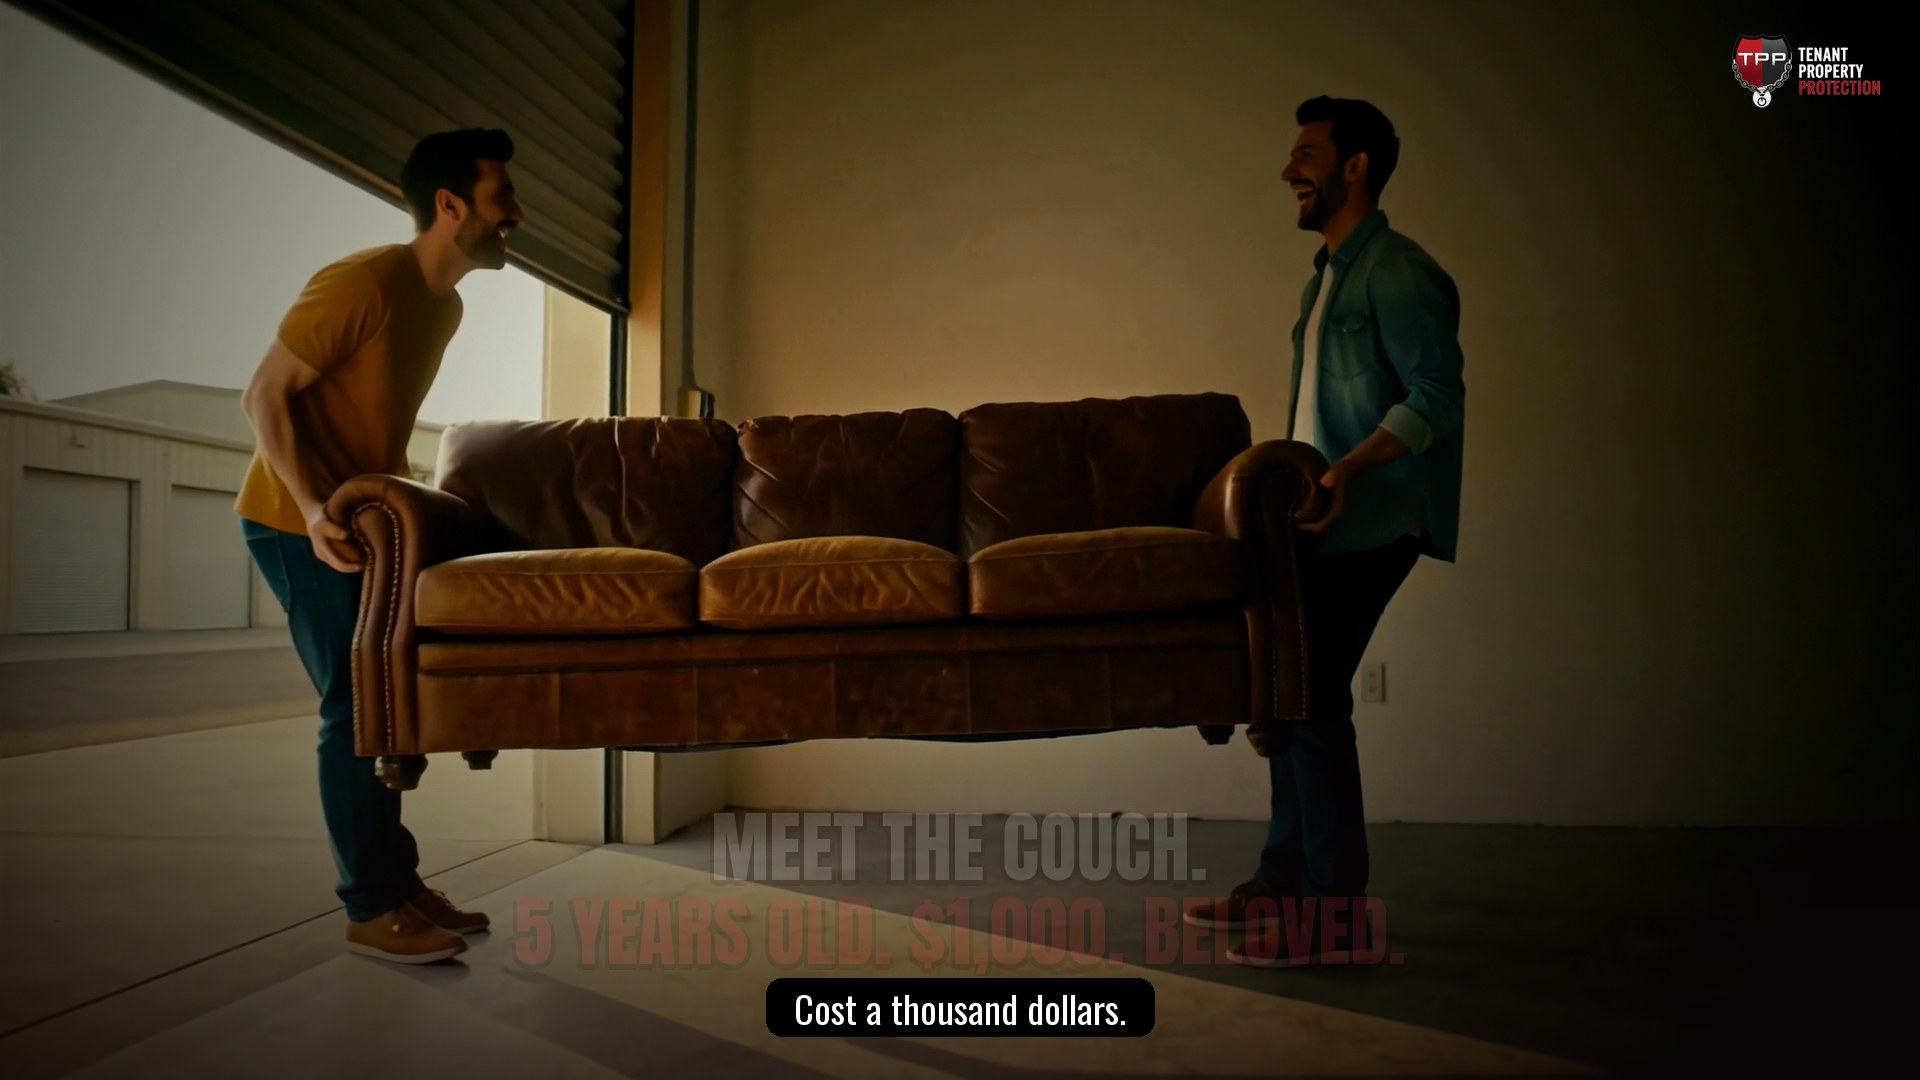
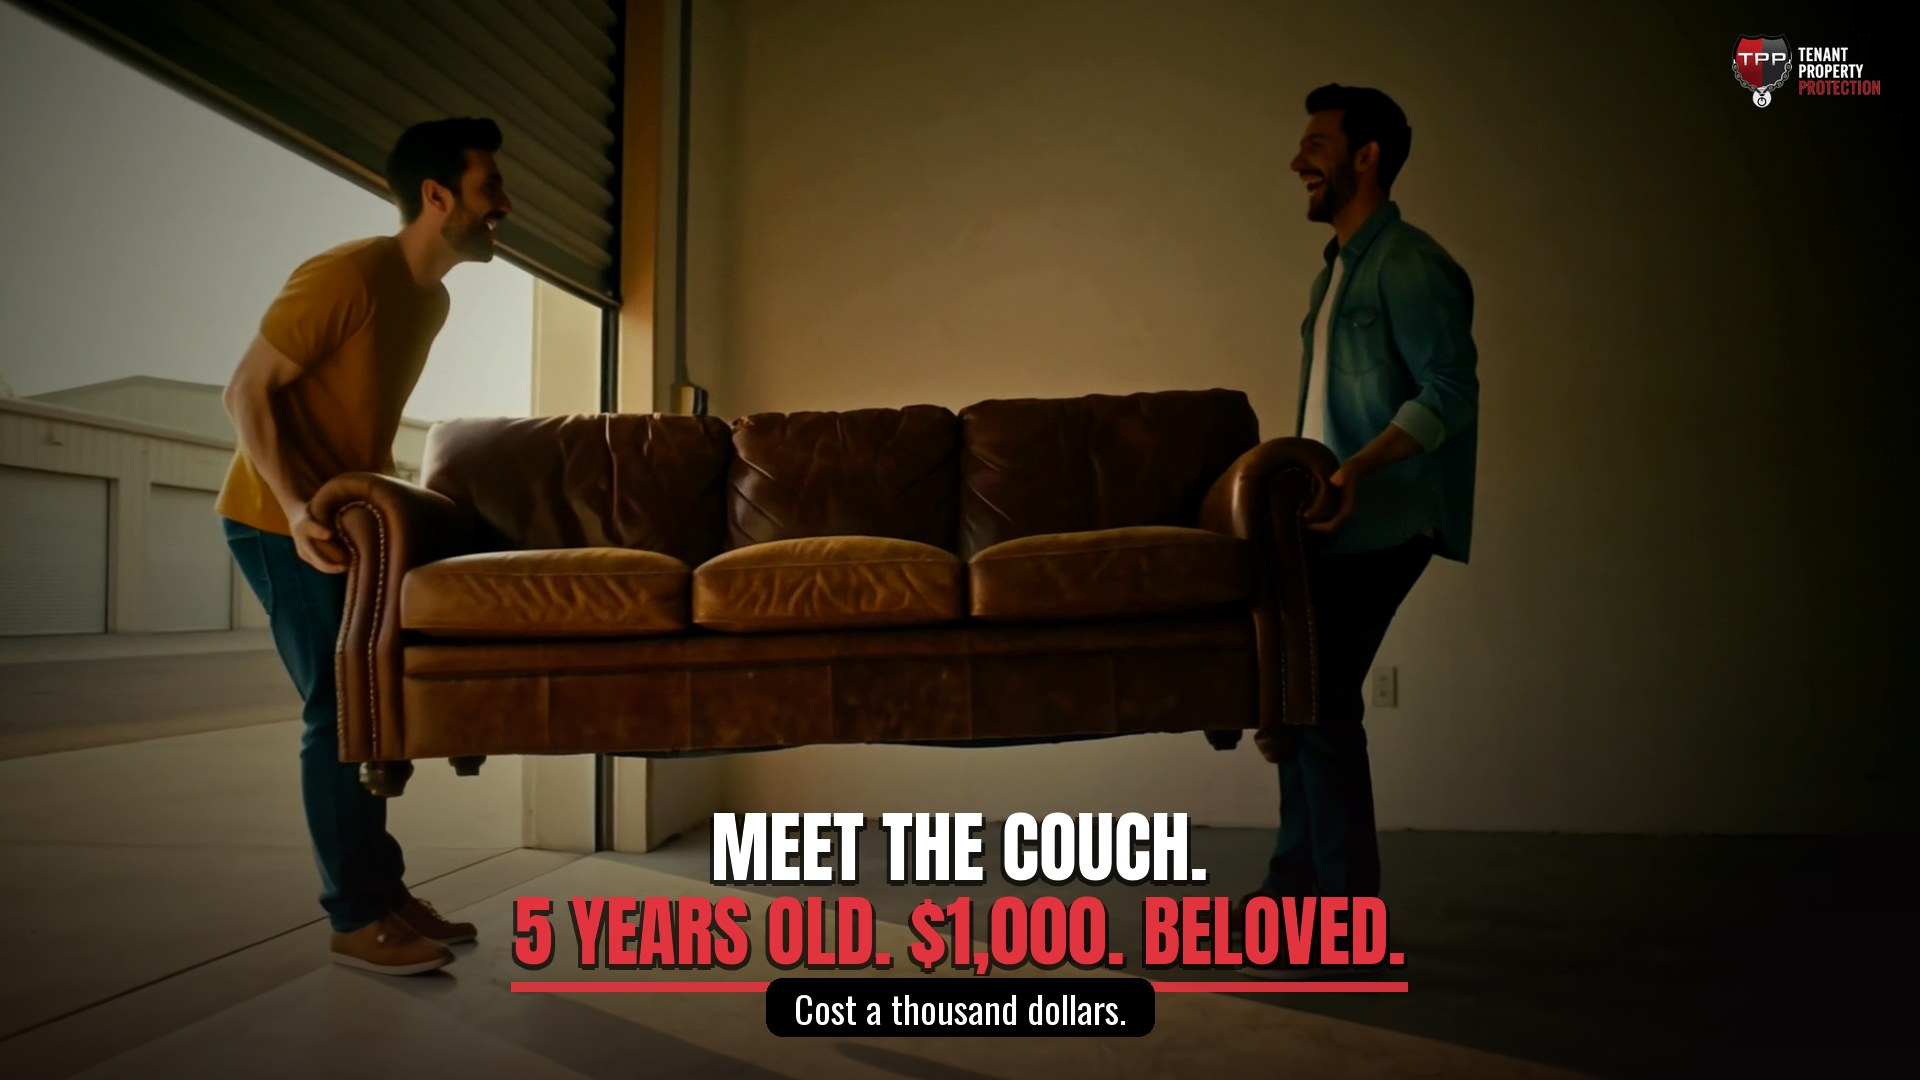
Pages: Portable Container wording, new durations

diff --git a/index.html b/index.html
@@ -27,12 +27,12 @@ footer{text-align:center;color:var(--mut);font-size:13px;padding:30px}
 <body><header><img src="https://teond1090.github.io/tpp-secure-media-videos/media/logo.png" alt="TPP Secure"><p>Protect your tenants. Grow your revenue. One partner, the whole TPP stack.</p></header>
 <main><h1>TPP Secure Media Videos</h1><p class='meta'>Three 16:9 HD spots (under 60 seconds, 1920×1080 MP4 H.264) for the General Session screens, YouTube, LinkedIn and Facebook, each with its own share link that unfurls with a thumbnail.</p><div class='grid'><div class="card">
 <div class="vwrap" style="background:#000 url('https://teond1090.github.io/tpp-secure-media-videos/media/stack.jpg') center/cover no-repeat"><video controls playsinline preload="none" poster="https://teond1090.github.io/tpp-secure-media-videos/media/stack.jpg" src="https://teond1090.github.io/tpp-secure-media-videos/media/stack.mp4"></video></div>
-<div class="body"><h2>The Whole Stack</h2><div class="meta">55 s &middot; 16:9 HD (1920×1080, MP4 H.264) for event screens, YouTube, LinkedIn and Facebook</div>
+<div class="body"><h2>The Whole Stack</h2><div class="meta">57 s &middot; 16:9 HD (1920×1080, MP4 H.264) for event screens, YouTube, LinkedIn and Facebook</div>
 <a class="btn" href="https://teond1090.github.io/tpp-secure-media-videos/media/stack.mp4" download>Download 16:9 HD (1920×1080)</a><a class="btn alt" href="https://teond1090.github.io/tpp-secure-media-videos/stack/">Share link</a>
 <div class="cap"><b>Suggested post</b>
 One partner. The whole stack.
 
-TPP Secure protects what your tenants store, and the rest of the TPP stack covers everything else on your property: RV Park &#x27;N&#x27; Protect, Mobile Container, Flex Space, and a Business Owner Policy with Excess General Liability. Protect your tenants. Grow your revenue. #TPPSecure #SelfStorage #TenantProtection</div>
+TPP Secure protects what your tenants store, and the rest of the TPP stack covers everything else on your property: RV Park &#x27;N&#x27; Protect, Portable Container, Flex Space, and a Business Owner Policy with Excess General Liability. Protect your tenants. Grow your revenue. #TPPSecure #SelfStorage #TenantProtection</div>
 
 </div></div><div class="card">
 <div class="vwrap" style="background:#000 url('https://teond1090.github.io/tpp-secure-media-videos/media/couch.jpg') center/cover no-repeat"><video controls playsinline preload="none" poster="https://teond1090.github.io/tpp-secure-media-videos/media/couch.jpg" src="https://teond1090.github.io/tpp-secure-media-videos/media/couch.mp4"></video></div>
@@ -45,7 +45,7 @@ A typical homeowner&#x27;s policy might depreciate it to $500 and then subtract 
 
 </div></div><div class="card">
 <div class="vwrap" style="background:#000 url('https://teond1090.github.io/tpp-secure-media-videos/media/revenue.jpg') center/cover no-repeat"><video controls playsinline preload="none" poster="https://teond1090.github.io/tpp-secure-media-videos/media/revenue.jpg" src="https://teond1090.github.io/tpp-secure-media-videos/media/revenue.mp4"></video></div>
-<div class="body"><h2>Your #2 Revenue Stream</h2><div class="meta">57 s &middot; 16:9 HD (1920×1080, MP4 H.264) for event screens, YouTube, LinkedIn and Facebook</div>
+<div class="body"><h2>Your #2 Revenue Stream</h2><div class="meta">59 s &middot; 16:9 HD (1920×1080, MP4 H.264) for event screens, YouTube, LinkedIn and Facebook</div>
 <a class="btn" href="https://teond1090.github.io/tpp-secure-media-videos/media/revenue.mp4" download>Download 16:9 HD (1920×1080)</a><a class="btn alt" href="https://teond1090.github.io/tpp-secure-media-videos/revenue/">Share link</a>
 <div class="cap"><b>Suggested post</b>
 Your #2 revenue stream might already be sitting in your lease.

diff --git a/stack/index.html b/stack/index.html
@@ -32,12 +32,12 @@ footer{text-align:center;color:var(--mut);font-size:13px;padding:30px}
 <body><header><img src="https://teond1090.github.io/tpp-secure-media-videos/media/logo.png" alt="TPP Secure"><p>Protect your tenants. Grow your revenue. One partner, the whole TPP stack.</p></header>
 <main><div class="card single">
 <div class="vwrap" style="background:#000 url('https://teond1090.github.io/tpp-secure-media-videos/media/stack.jpg') center/cover no-repeat"><video controls playsinline preload="auto" poster="https://teond1090.github.io/tpp-secure-media-videos/media/stack.jpg" src="https://teond1090.github.io/tpp-secure-media-videos/media/stack.mp4"></video></div>
-<div class="body"><h2>The Whole Stack</h2><div class="meta">55 s &middot; 16:9 HD (1920×1080, MP4 H.264) for event screens, YouTube, LinkedIn and Facebook</div>
+<div class="body"><h2>The Whole Stack</h2><div class="meta">57 s &middot; 16:9 HD (1920×1080, MP4 H.264) for event screens, YouTube, LinkedIn and Facebook</div>
 <a class="btn" href="https://teond1090.github.io/tpp-secure-media-videos/media/stack.mp4" download>Download 16:9 HD (1920×1080)</a>
 <div class="cap"><b>Suggested post</b>
 One partner. The whole stack.
 
-TPP Secure protects what your tenants store, and the rest of the TPP stack covers everything else on your property: RV Park &#x27;N&#x27; Protect, Mobile Container, Flex Space, and a Business Owner Policy with Excess General Liability. Protect your tenants. Grow your revenue. #TPPSecure #SelfStorage #TenantProtection</div>
+TPP Secure protects what your tenants store, and the rest of the TPP stack covers everything else on your property: RV Park &#x27;N&#x27; Protect, Portable Container, Flex Space, and a Business Owner Policy with Excess General Liability. Protect your tenants. Grow your revenue. #TPPSecure #SelfStorage #TenantProtection</div>
 
 </div></div></main><footer>TPP Secure &middot; <a href="https://tenantpropertyprotection.com/">tenantpropertyprotection.com</a> &middot; Booth #527 · 877-575-7774</footer>
 <script>

diff --git a/revenue/index.html b/revenue/index.html
@@ -32,7 +32,7 @@ footer{text-align:center;color:var(--mut);font-size:13px;padding:30px}
 <body><header><img src="https://teond1090.github.io/tpp-secure-media-videos/media/logo.png" alt="TPP Secure"><p>Protect your tenants. Grow your revenue. One partner, the whole TPP stack.</p></header>
 <main><div class="card single">
 <div class="vwrap" style="background:#000 url('https://teond1090.github.io/tpp-secure-media-videos/media/revenue.jpg') center/cover no-repeat"><video controls playsinline preload="auto" poster="https://teond1090.github.io/tpp-secure-media-videos/media/revenue.jpg" src="https://teond1090.github.io/tpp-secure-media-videos/media/revenue.mp4"></video></div>
-<div class="body"><h2>Your #2 Revenue Stream</h2><div class="meta">57 s &middot; 16:9 HD (1920×1080, MP4 H.264) for event screens, YouTube, LinkedIn and Facebook</div>
+<div class="body"><h2>Your #2 Revenue Stream</h2><div class="meta">59 s &middot; 16:9 HD (1920×1080, MP4 H.264) for event screens, YouTube, LinkedIn and Facebook</div>
 <a class="btn" href="https://teond1090.github.io/tpp-secure-media-videos/media/revenue.mp4" download>Download 16:9 HD (1920×1080)</a>
 <div class="cap"><b>Suggested post</b>
 Your #2 revenue stream might already be sitting in your lease.
